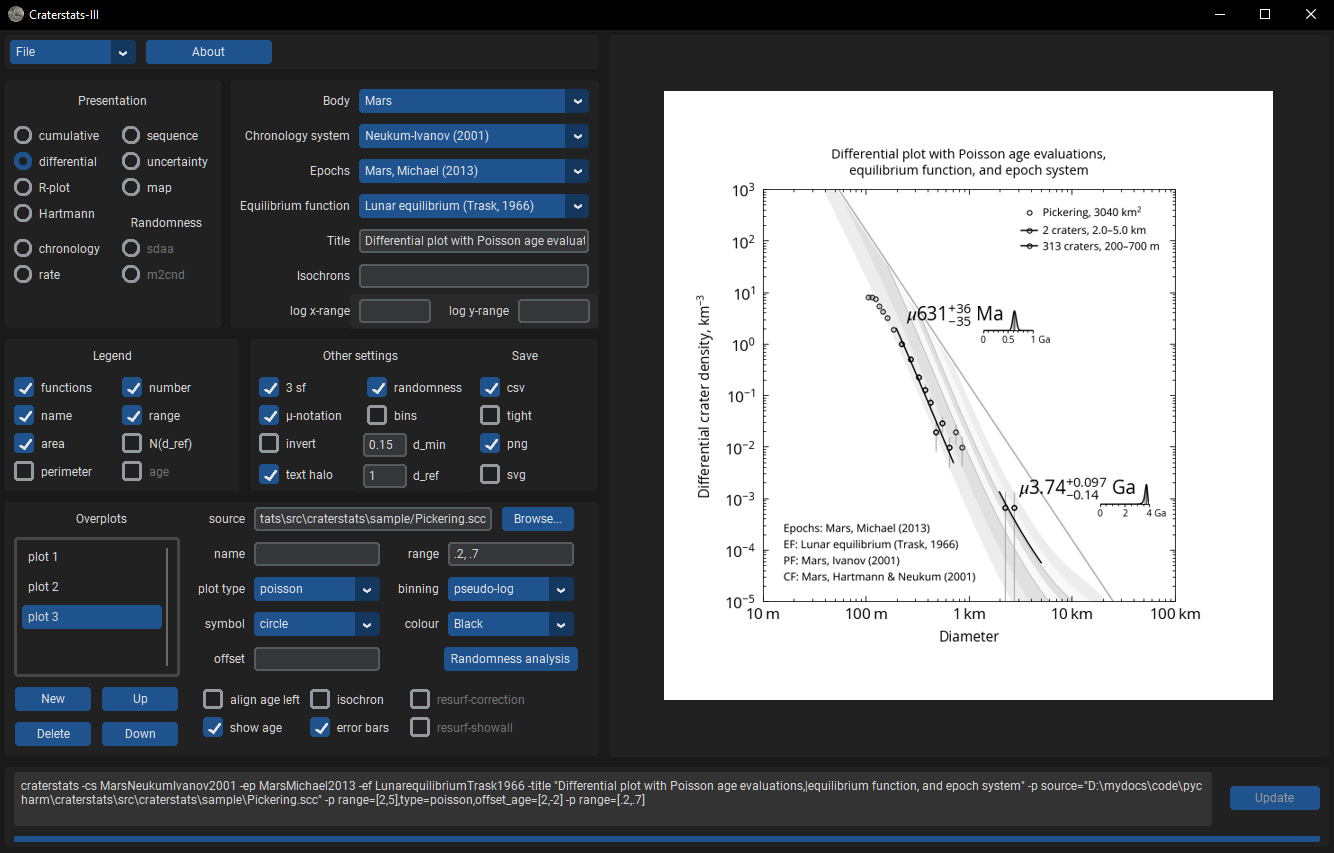
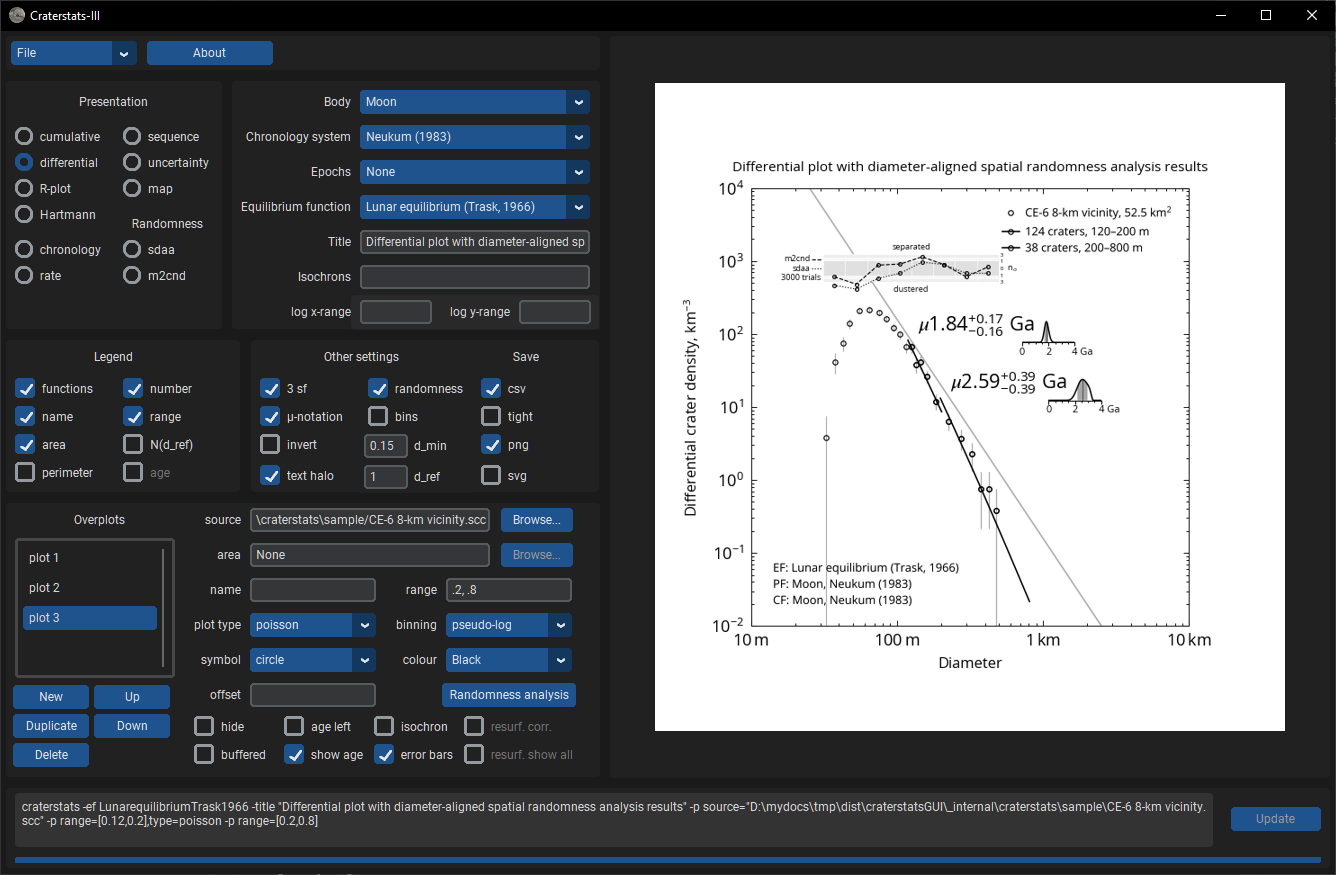
prepare update

diff --git a/CHANGELOG.md b/CHANGELOG.md
@@ -1,5 +1,10 @@
 # History
 
+## 0.2
+
+- Add box to specify separate _AREA.shp file if needed
+- Include improvements from craterstats 3.7.0
+
 ## 0.1.13
 
 - Derive from craterstats 3.6.11
